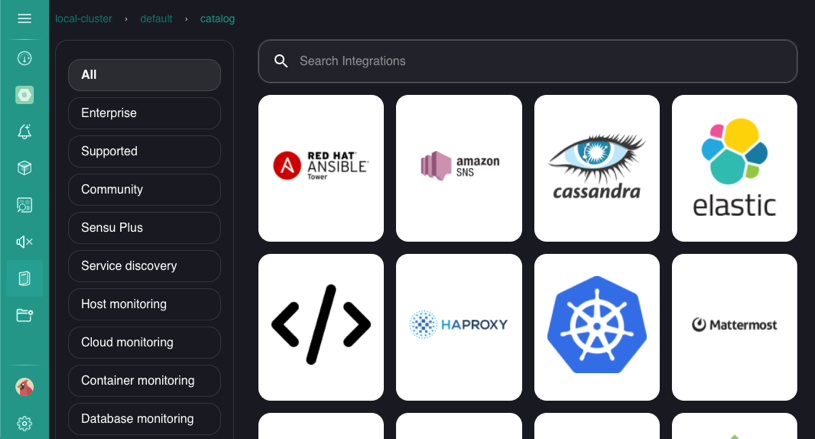
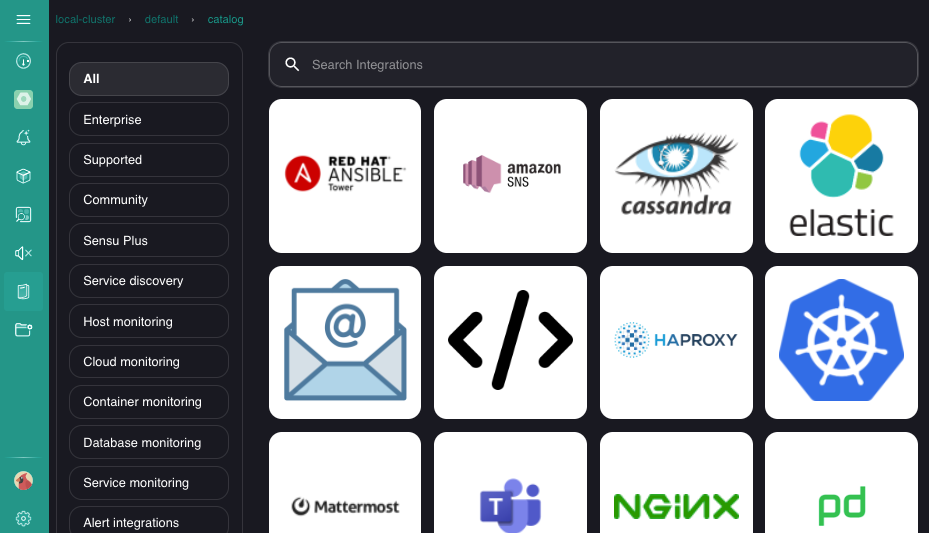
Update catalog page and images

diff --git a/content/sensu-go/6.7/web-ui/sensu-catalog.md b/content/sensu-go/6.7/web-ui/sensu-catalog.md
@@ -22,17 +22,20 @@ For more information, read [Get started with commercial features](../../commerci
 
 The Sensu Catalog is an online marketplace for monitoring and observability integrations, from standard system checks and metrics collection to pipelines for sending Sensu data to third-party logging, remediation, and incident management services.
 
-Sensu Catalog integrations allow you to configure powerful real-time monitoring and observability for the systems you rely on.
-All integrations are self-service to facilitate higher-velocity scaling with fewer onboarding barriers.
-
-Sensu curates, tests, and maintains the Catalog integrations, and installation follows a standardized process.
-
-An integration combines a Sensu [plugin][1] with the Sensu resource definitions required to use the plugin, like a [check][2] or [handler][3].
 The Sensu Catalog is part of the Sensu web UI, so you can find, configure, and install integrations directly from your browser.
 
-**TODO: update screenshot to clarify which is the Catalog icon**
-
 {{< figure src="/images/catalog_alphabetical.png" alt="The Sensu Catalog page in the Sensu web UI" link="/images/catalog_alphabetical.png" target="_blank" >}}
+
+An integration combines a Sensu plugin with a dynamic runtime asset and the Sensu resource definitions that use the plugin.
+
+- The [plugin][1] provides the executable script or other program to power a Sensu check, handler, or mutator.
+- The [dynamic runtime asset][20] is a shareable, reusable package that installs and deploys the plugin.
+
+Integrations provide the plugin and asset along with the recommended or minimum viable configuration and Sensu resources, integrating Sensu with different systems and services for collecting and processing observability data with a few clicks.
+
+Sensu Catalog integrations allow you to configure powerful real-time monitoring and observability for the systems you rely on.
+All integrations are self-service to facilitate higher-velocity scaling with fewer onboarding barriers.
+Sensu curates, tests, and maintains the Catalog integrations, and installation follows a standardized process.
 
 ## Find integrations
 
@@ -44,7 +47,7 @@ You can also [search][19] the Sensu Catalog by display_name, class, provider, an
 When the Catalog page loads in the Sensu web UI, all integrations are alphabetically listed by default.
 To return to the alphabetized list at any time, click the **All** category in the Catalog page sidebar navigation menu:
 
-**TODO: Add screenshot with All callout**
+{{< figure src="/images/catalog_all.png" alt="All category for integrations on the Sensu Catalog page in the Sensu web UI" link="/images/catalog_all.png" target="_blank" >}}
 
 ### Browse the categorized list
 
@@ -95,16 +98,16 @@ Sensu will auto-complete a simple search statement for the resources on that pag
 
 In the Sensu Catalog, integrations are represented by tiles.
 When you click an integration tile, the integration's detail page opens.
-The detail page includes tabs for README, CHANGELOG, SENSU RESOURCES, and RAW.
+The detail page includes tabs for **README**, **CHANGELOG**, **SENSU RESOURCES**, and **RAW**.
 
 {{< figure src="/images/catalog_integration_info_tabs.png" alt="Location of README, CHANGELOG, SENSU RESOURCES, and RAW tabs for an integration in the Sensu Catalog" link="/images/catalog_integration_info_tabs.png" target="_blank" >}}
 
-The README tab contains detailed information about the integration, including an overview, supported dashboards, setup instructions, the plugins the integration requires, the metrics and alerts the integration generates, and links to reference information.
-The README also describes any additional configuration needed to use the integration, like subscriptions to add to agent entities or secrets to create for sensitive information.
+The **README** tab contains detailed information about the integration, including an overview, supported dashboards, setup instructions, the plugins the integration requires, the metrics and alerts the integration generates, and links to reference information.
+The **README** also describes any additional configuration needed to use the integration, like subscriptions to add to agent entities or secrets to create for sensitive information.
 
-The CHANGELOG tab lists the notable changes, improvements, and fixes for all versions of the integration. 
+The **CHANGELOG** tab lists the notable changes, improvements, and fixes for all versions of the integration. 
 
-The SENSU RESOURCES tab contains usable examples of all of the resource definitions you need to use the integration, including the plugin [asset][4], [secrets][5], [checks][2], [handlers][3], and [pipelines][6].
+The **SENSU RESOURCES** tab contains usable examples of all of the resource definitions you need to use the integration, including the plugin [asset][4], [secrets][5], [checks][2], [handlers][3], and [pipelines][6].
 Click the `yaml` or `json` buttons to select the format for each definition.
 
 {{% notice note %}}
@@ -112,7 +115,7 @@ Click the `yaml` or `json` buttons to select the format for each definition.
 Use the **INSTALL** button to [configure and install the integration](#configure-and-install-an-integration) directly from your browser or copy the example definitions to configure and create with [sensuctl](../../sensuctl/create-manage-resources/) or the Sensu [API](../../api/).
 {{% /notice %}}
 
-The RAW tab contains the resource definition for the integration itself.
+The **RAW** tab contains the resource definition for the integration itself.
 The raw resource definition allows you to customize the integration if needed.
 Click the `yaml` or `json` buttons to select the format for the integration definition.
 
@@ -124,7 +127,7 @@ To configure and install an integration:
 1. Click **INSTALL** to open the configuration wizard.
 The configuration wizard is a multi-page form with fields and prompts for collecting additional configuration attributes for the integration.
 2. Type values in each attribute field in the wizard to configure the integration for your instance.
-Click the NEXT and BACK buttons to navigate through wizard pages as needed.
+Use the **NEXT** and **BACK** buttons to navigate through wizard pages as needed.
 3. Review the resource definitions on the Summary page.
 4. Click **APPLY** to save your configuration and create the integration resources.
 5. Click **FINISH** on the confirmation page to close the configuration wizard.
@@ -145,7 +148,21 @@ Click the dropdown arrows to review the resource definitions:
 
 {{< figure src="/images/catalog_integration_summary_definitions.gif" alt="Summary page of configuration wizard for a Sensu Catalog integration" link="/images/catalog_integration_summary_definitions.gif" target="_blank" >}}
 
-The resulting resource definitions represent Sensu's recommended configuration (i.e. how to use plugins) to make it easier to evaluate and deploy Sensu solutions
+The resulting resource definitions represent Sensu's recommended configuration for the integration.
+
+### Duplicate integrations and existing resources
+
+You can reuse the same integration as long as all resource definitions have unique names.
+
+When you install an integration, Sensu checks your existing resources before creating the new resources.
+If Sensu finds an existing resource with the same name, the configuration wizard will prompt you to either:
+
+- Provide a unique name for the new resources.
+- Acknowledge that the new resources should overwrite the existing resources.
+
+**TODO: Replace with updated GIF**
+
+{{< figure src="/images/rename_overwrite_prompt.gif" alt="Summary page of configuration wizard for a Sensu Catalog integration" link="/images/rename_overwrite_prompt.gif" target="_blank" >}}
 
 ## View and manage your integrations
 
@@ -156,7 +173,7 @@ View and manage integration resources just like all of your other Sensu resource
 
 ## Reuse integration resources
 
-The integration definitions listed in the [SENSU RESOURCES tab][13] are usable, portable definitions for all of the resources you need to use the integration.
+The integration definitions listed in the [**SENSU RESOURCES** tab][13] are usable, portable definitions for all of the resources you need to use the integration.
 These definitions are universal [monitoring as code][15] templates: they do not include a namespace or the specific values you provide while [configuring and installing][14] the integration.
 
 ## Use secrets in integrations
@@ -171,7 +188,6 @@ The Sensu Catalog is an open marketplace, and you can contribute by sharing Sens
 
 ## TODO: Questions
 
-- If I recreate the same integration, does it overwrite the existing resources? Create a second set of resources? Ignore the new integration and resources?
 - What is the purpose of the commit code next to the INSTALL button? Is this for pinning the integration to a specific asset version? Or maybe a specific version of the integration itself?
 - Will the catalog API exist at launch?
 - What is supposed to be at https://catalog.sensu.io/?
@@ -197,3 +213,4 @@ The Sensu Catalog is an open marketplace, and you can contribute by sharing Sens
 [17]: #browse-the-categorized-list
 [18]: #browse-a-metadata-based-list
 [19]: #search-for-integrations
+[20]: ../../plugins/assets/
